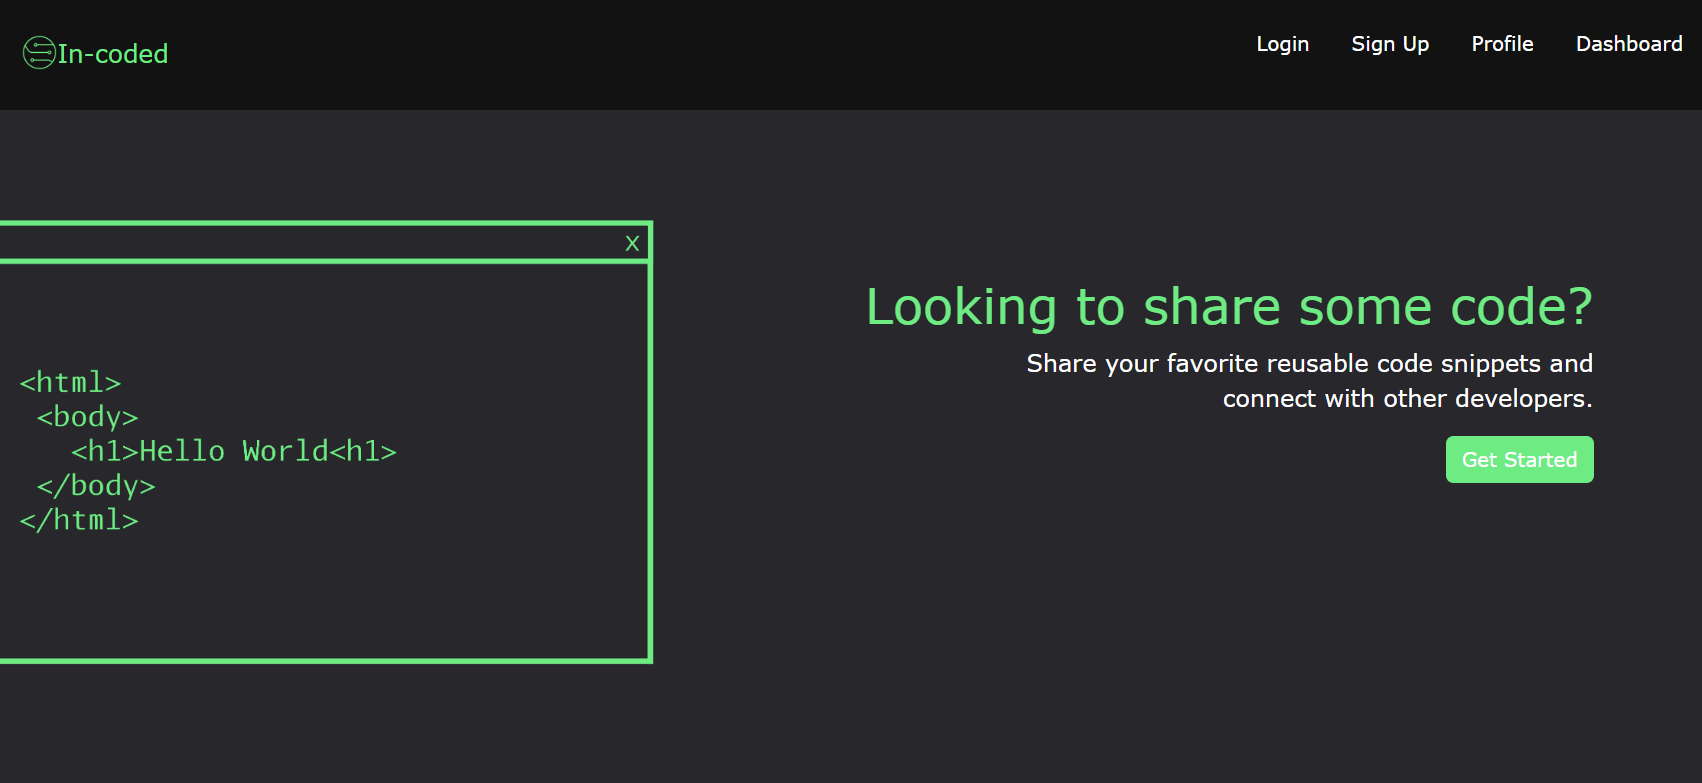
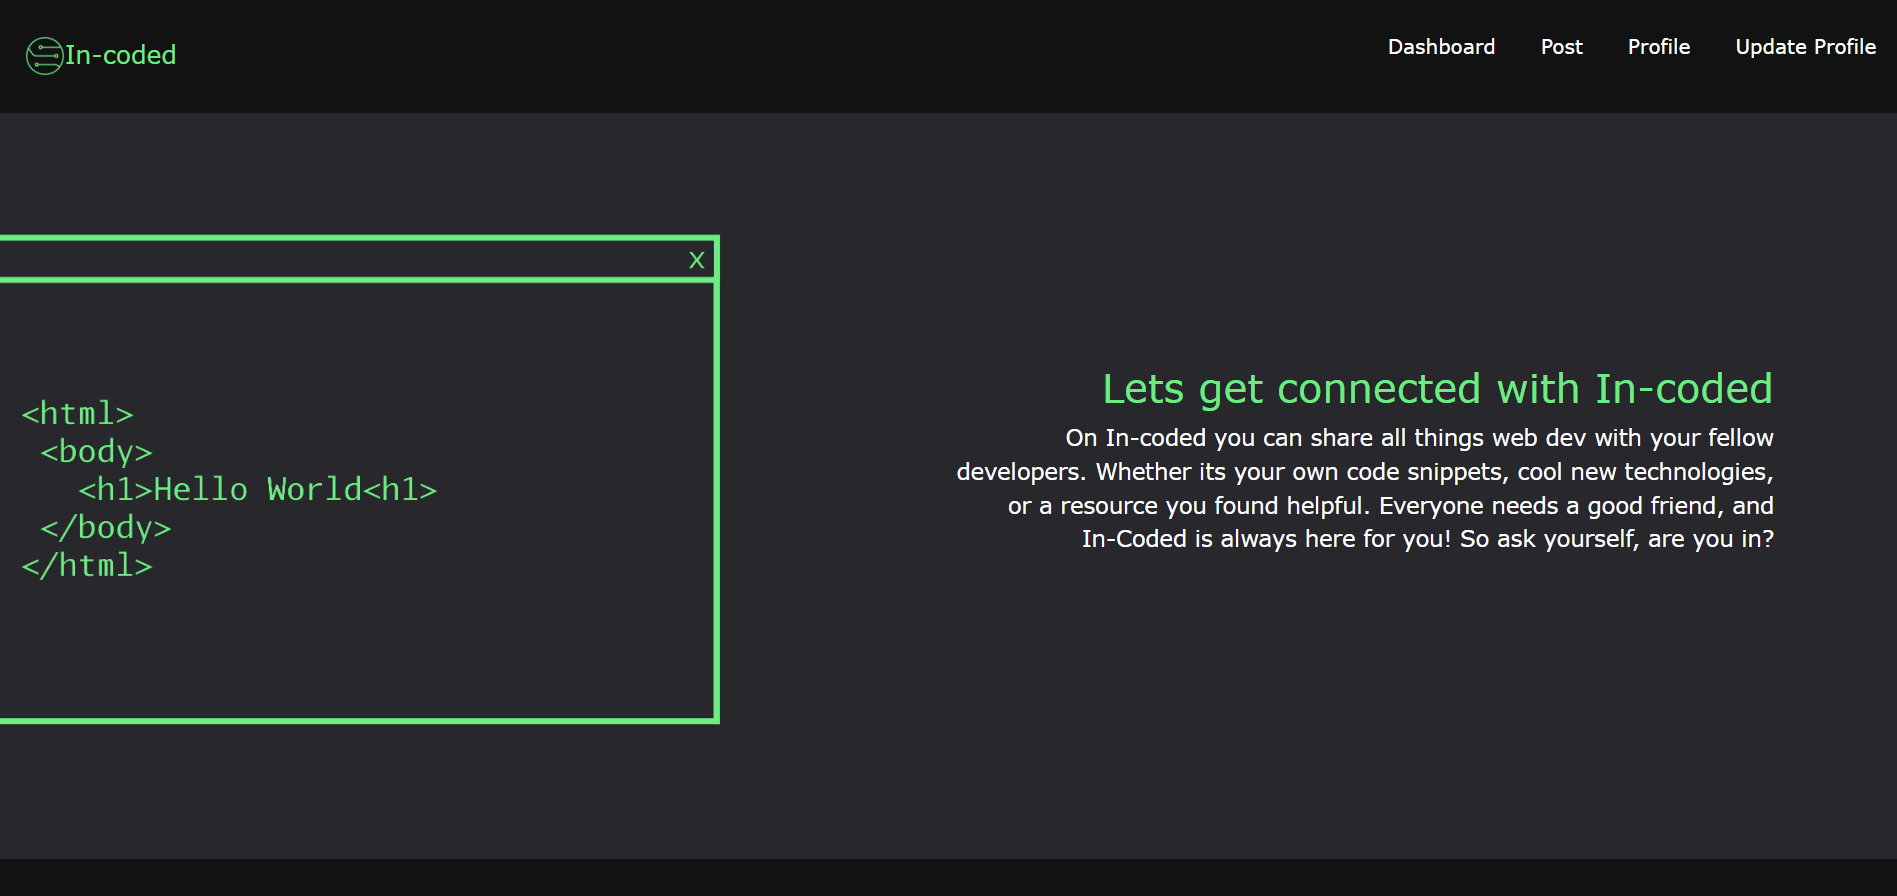
Changed summery and screenshot

diff --git a/client/src/components/pages/Homepage.js b/client/src/components/pages/Homepage.js
@@ -22,7 +22,7 @@ export default function Homepage({ currentPage, handlePageChange }) {
           <div id="computer">
             <h2>Lets get connected with In-coded</h2>
             <p className="align-middle">
-             On In-coded you can share all things web dev with your fellow developers. Weather its your own code snippets, cool new technologies, or a resource you found helpful. Everyone needs a good friend, and<br/> In-Coded is always here for you! So ask yourself, are you in?
+             On In-coded you can share all things web dev with your fellow developers. Whether its your own code snippets, cool new technologies, or a resource you found helpful. Everyone needs a good friend, and<br/> In-Coded is always here for you! So ask yourself, are you in?
             </p>
             {/* Depending on if the user is logged in or not different navtabs will display */}
             {Auth.loggedIn() ? (

diff --git a/README.md b/README.md
@@ -2,7 +2,7 @@
 
 ## Description
 
-Provide a resource of friends in tech jobs who post positions at their company and provide a reference.
+Provide a resource for website developers to share code, share information, and to build a community.
 
 Working with React and mongoDB to create a MERN app has been a great experience. Each person on the team has learned and implement ideas / code that required research and time.
 
@@ -23,14 +23,14 @@ https://in-ployed.herokuapp.com/
 
 Allows users to connect to jobs based on a circle of Peers.
 
-![alt text](./client/src/assets/screenshot.png)
+![Screenshot of the homepage of In-Coded.](./client/src/assets/screenshot.png)
 
 ## Credits
 
-Johnathan Mann - Frontend development and UI design
-Matthew Tierney - Frontend development
-Gavin Orlich - Backend build, routing and API
-Steve Weed - Backend build, models, and database.
+Johnathan Mann - Frontend development and UI design <br>
+Matthew Tierney - Frontend development<br>
+Gavin Orlich - Backend build, routing and API<br>
+Steve Weed - Backend build, models, and database<br>
 
 ## License
 
